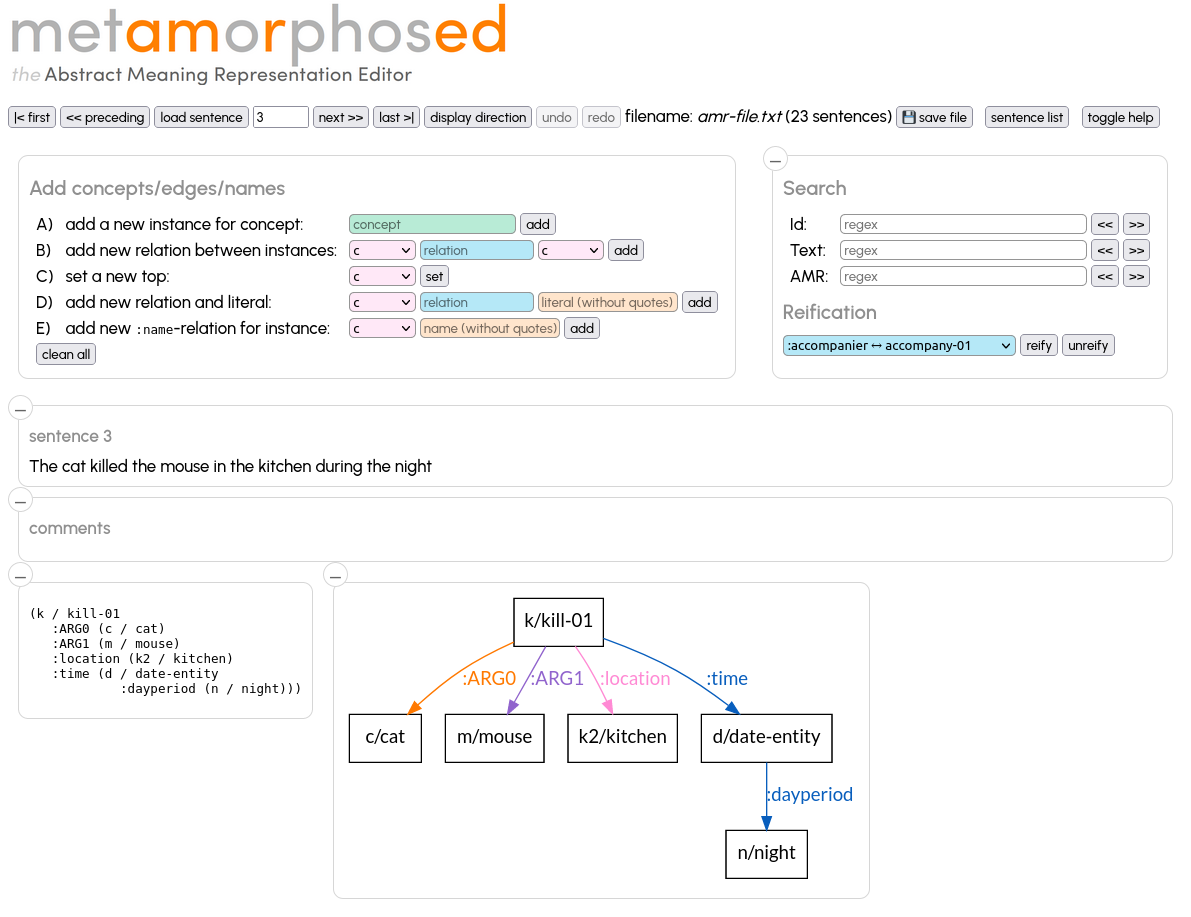
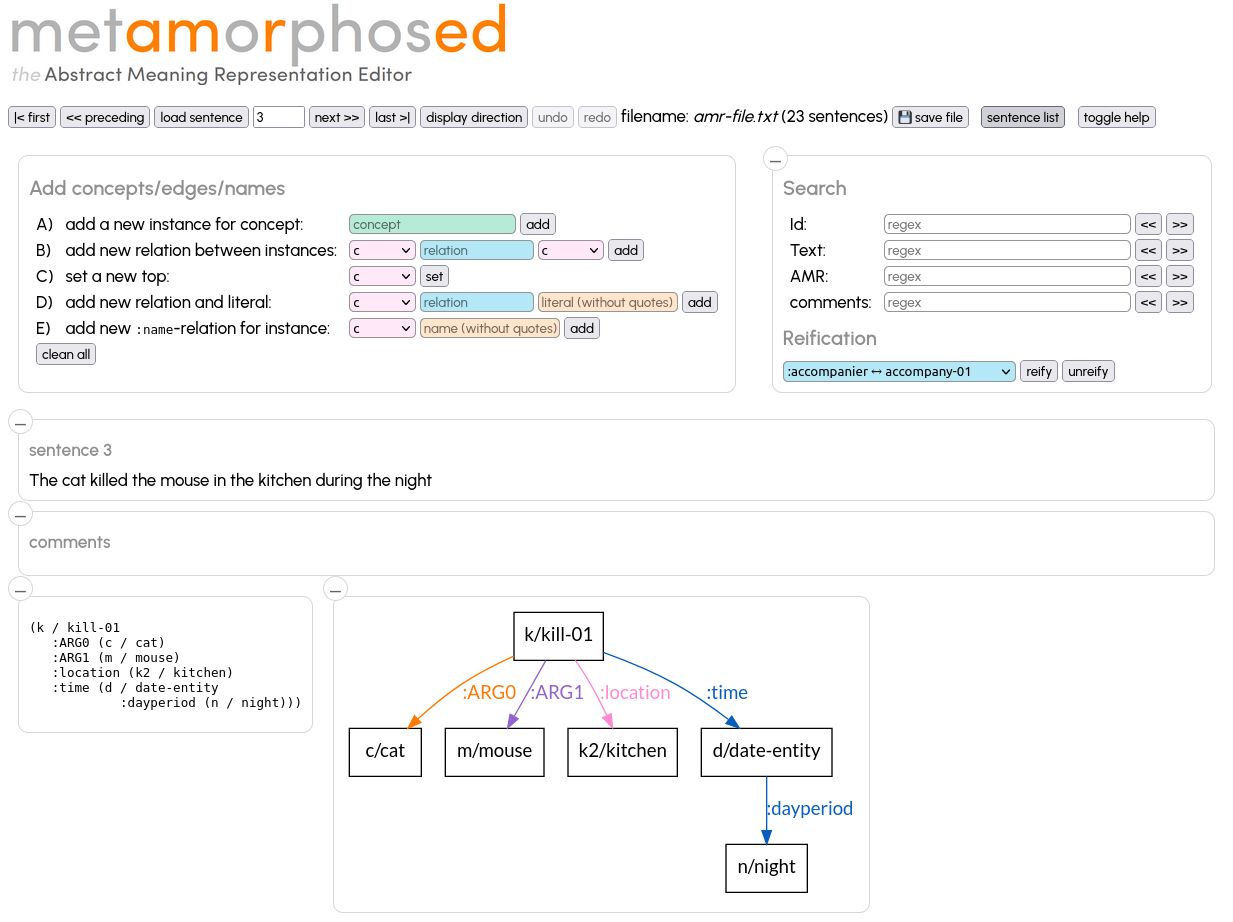
searching for comments new tests doc updated

Changed region(s): [[0.0, 0.0916, 0.9941, 0.4275], [0.0, 0.4275, 0.7145, 0.9771], [0.0311, 0.0, 0.4349, 0.0916]]

diff --git a/gui/index.html b/gui/index.html
@@ -148,6 +148,13 @@
                             <button class="findbutton mybutton" id="findamrnext" title="find next occurrence">&gt;&gt;</button>
                         </td>
                     </tr>
+                    <tr>
+                        <td>comments:</td>
+                        <td><input class="amrfield" placeholder="regex" title="??" type="text" id="commentsearch" value="">
+                            <button class="findbutton mybutton" id="findcommentprec" title="find preceding occurrence">&lt;&lt;</button>
+                            <button class="findbutton mybutton" id="findcommentnext" title="find next occurrence">&gt;&gt;</button>
+                        </td>
+                    </tr>
                 </table>
 	        <div id="reifygroup">
   	           <div class="reifyelem">

diff --git a/gui/index.js b/gui/index.js
@@ -1146,6 +1146,11 @@ $(document).ready(function () {
 				"what": this.id,
 				"regex": $("#amrsearch").val()
 			}
+		} else if (this.id == "findcommentnext" || this.id == "findcommentprec") {
+			params = {
+				"what": this.id,
+				"regex": $("#commentsearch").val()
+			}
 		} else {
 			return;
 		}

diff --git a/server.py b/server.py
@@ -75,7 +75,7 @@ class AMR_Edit_Server:
             self.reificator = reification.getInstance(reifications)
 
         self.fileversion = "2"
-        if not gitinterface.is_git_controlled(filename):
+        if not readonly and not gitinterface.is_git_controlled(filename):
             bak_filename = filename + "." + self.fileversion
             if os.path.exists(bak_filename):
                 raise Exception("Edited file <%s> not under git version control. Backup file <%s> exists already.\nPlease rename Backup file first" % (filename, bak_filename))
@@ -358,6 +358,12 @@ class AMR_Edit_Server:
                     if ok:
                         sentnum = x+1
                         break
+            elif what == "findcommentnext":
+                for x in range(sentnum+1, len(self.amrdoc.sentences)):
+                    okc = list(self.amrdoc.sentences[x].findcomment(regex))
+                    if okc:
+                        sentnum = x+1
+                        break
             elif what == "findamrnext":
                 for x in range(sentnum+1, len(self.amrdoc.sentences)+1):
                     #oka = list(self.amrdoc.sentences[x].findamr(regex))
@@ -377,6 +383,13 @@ class AMR_Edit_Server:
                     if ok:
                         sentnum = x+1
                         break
+            elif what == "findcommentprec":
+                for x in range(sentnum-2, -1, -1):
+                    ok = self.amrdoc.sentences[x].findcomment(regex)
+                    if ok:
+                        sentnum = x+1
+                        break
+
             elif what == "findamrprec":
                 for x in range(sentnum-1, 0, -1):
                     oka = list(self.aps[x].findamr(regex))

diff --git a/unittests.py b/unittests.py
@@ -421,6 +421,20 @@ def test_search_id(client):
     #print("res", res)
     assert res["num"] == 6
 
+def test_search_text(client):
+    #response = client.get("/read", query_string = {"num": 4})
+    response = client.get("/search", query_string = {"num": 1, "what": "findcommentnext", "regex": "h.re" })
+    res = json.loads(response.data)
+    #print("res", res)
+    assert res["num"] == 15
+
+    response = client.get("/search", query_string = {"num": 4, "what": "findcommentprec", "regex": "s[aeiou]cond" })
+    res = json.loads(response.data)
+    #print("res", res)
+    assert res["num"] == 2
+
+
+
 def test_get_invalid_amr(client):
     response = client.get("/read", query_string = {"num": 13})
     res = json.loads(response.data)

diff --git a/amrdoc.py b/amrdoc.py
@@ -147,6 +147,15 @@ class AMRsentence:
                 return rtc
         return [] #False
 
+    def findcomment(self, regex):
+        if self.comments:
+            for c in self.comments:
+                rtc = re.finditer(regex, c, re.IGNORECASE)
+                if rtc:
+                    # print(rtc)
+                    return rtc
+        return [] #False
+
     def findid(self, regex):
         if self.id:
             rtc = re.search(regex, self.id, re.IGNORECASE)

diff --git a/amreditor.py b/amreditor.py
@@ -33,9 +33,9 @@
 # Software Name: MetAMoRphosED AMR-Editor
 # Author: Johannes Heinecke
 
-# version 2.5.5 as of 21st September 2023
+# version 2.6.0 as of 25th October 2023
 
-VERSION="2.5.5"
+VERSION="2.6.0"
 
 
 import penman

diff --git a/README.md b/README.md
@@ -11,7 +11,7 @@ by LDC (https://catalog.ldc.upenn.edu/LDC2020T02)
 
 _metAMmoRphosED_ runs as a local Web server, an internet browser must be used to navigate through the sentences and modifiy them. If the edited file is under git version control, every modification is automatically commited to the local repository.
 
-Version 2.5.5 (see [CHANGES.md](CHANGES.md))
+Version 2.6.0 (see [CHANGES.md](CHANGES.md))
 
 ## installation
 
